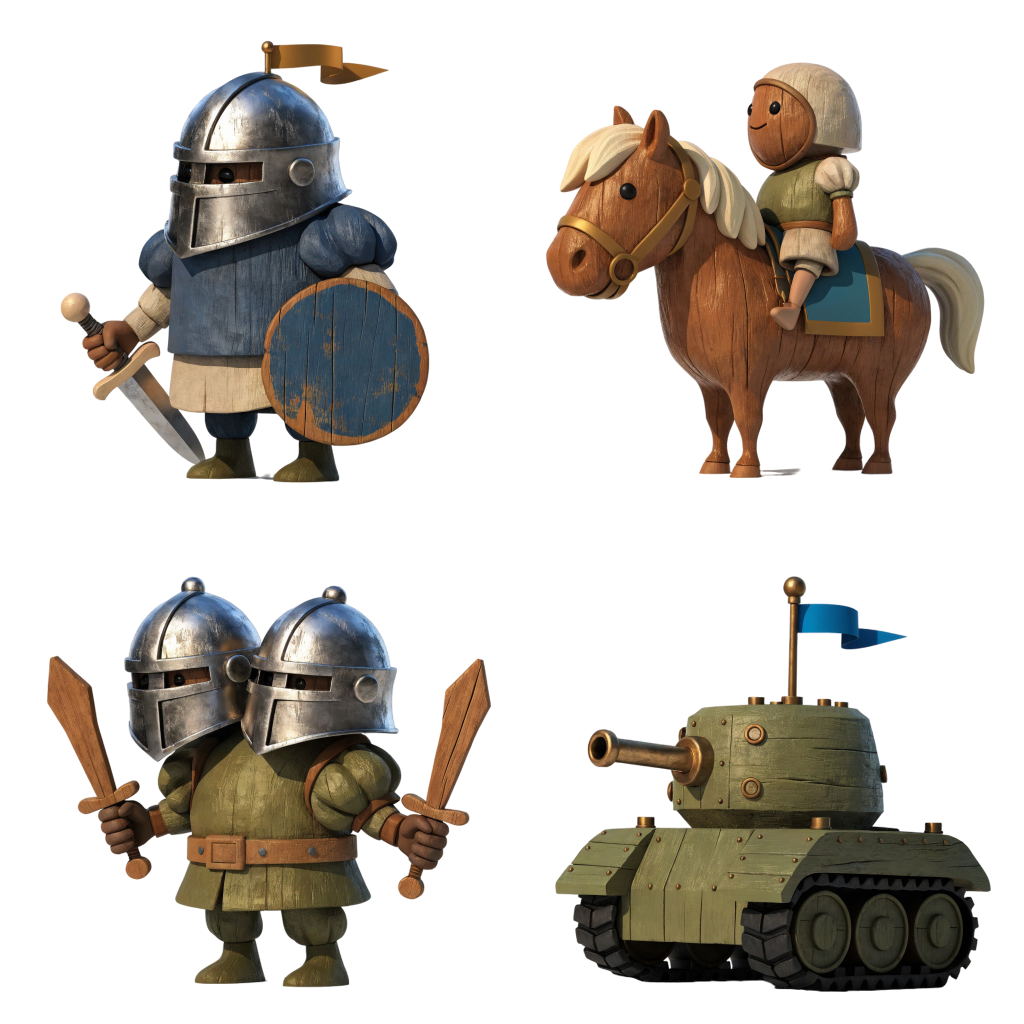
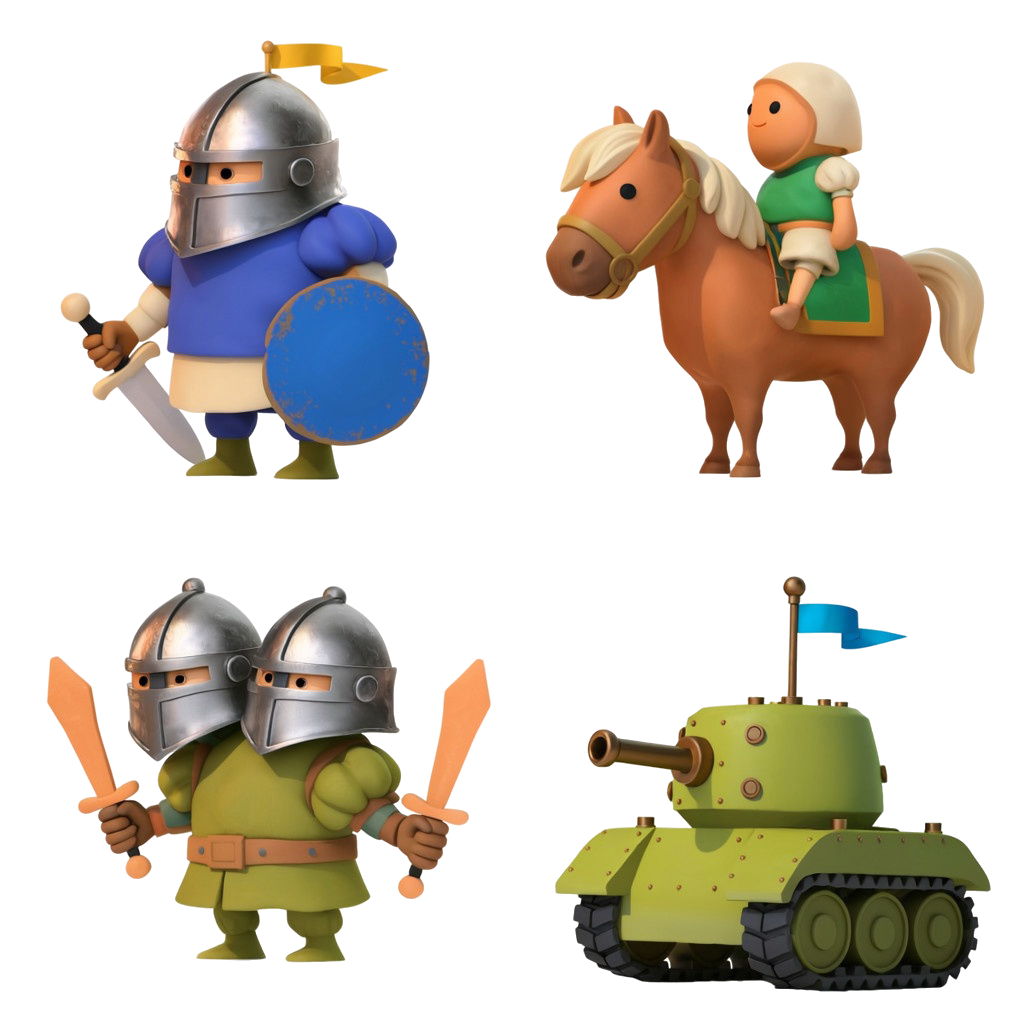
feat(art): onze planches refaites en pâte à modeler, mêmes personnages
Décision du parent après comparaison de quatre outils : garder les
personnages, leurs poses et leurs couleurs, ne changer que la matière.
Alliés, serpents, forteresses et pots de miel sont plus vifs et plus lisibles
sur téléphone. Format inchangé (1024×1024, WebP sans perte), planches plus
légères (3,9 Mo au lieu de 6,2). Aucune règle touchée.

Journal, identifiants Magnific et dépense :
public/assets/illustrated/PROVENANCE-RESTYLE-2026-11.md

Claude-Session: https://claude.ai/code/session_0153huJungw2KXDp7mHDZLQs

diff --git a/public/assets/illustrated/PROVENANCE-RESTYLE-2026-11.md b/public/assets/illustrated/PROVENANCE-RESTYLE-2026-11.md
@@ -1,0 +1,257 @@
+# Planches refaites en pâte à modeler — 12 novembre 2026
+
+Décision du parent le 12 novembre 2026, après comparaison de quatre outils (Magnific, Recraft,
+Leonardo, Higgsfield) : garder les personnages, leurs poses et leurs couleurs, et ne changer
+que la matière, pour des figurines plus vives et plus lisibles sur téléphone. Outil retenu :
+la retouche de Magnific (`images_retouch`, mode `edit`), puis son détourage.
+
+Onze planches de `src/assets/illustrated/` sont remplacées, toujours en 1024×1024, quatre
+cases de 512 (mutants : 512×600), WebP sans perte : allies-front, allies-support, allies-elite,
+allies-creatures, allies-dinosaurs, allies-mutants, enemies-organic, enemies-mechanical,
+serpents-family, strongholds, miels-parapluie. Les fonds, `terrain-props`,
+`props-three-bridges` et `interface-craft` ne changent pas. Les planches précédentes
+restent dans l'historique Git et sur le compte Magnific.
+
+Dépense totale du chantier : 1 618 crédits Magnific (essais compris) et 4 crédits Recraft.
+
+## Planches faites en premier (essais validés en jeu)
+
+| Planche | Source | Retouche retenue | Détourage |
+| --- | --- | --- | --- |
+| allies-front | tC4Ptr6mZJ | [lJosK3cgv9](https://www.magnific.com/app/creation/lJosK3cgv9) | 5jTbEkNKxe |
+| enemies-organic | 8ayO8lSIrU | [N2QNzyF6D9](https://www.magnific.com/app/creation/N2QNzyF6D9) | bx0bgPL5Y2 |
+
+Essais écartés : copie de style rgp1XZkxtc (couleurs changées), génération guidée ksMKE9M16B
+(personnages retournés), retouche SyISNuoUb8 (peau orange, confondue avec le contour des
+ennemis).
+
+## Compléments après accord du parent
+
+| Planche | Retouche retenue | Détourage | Remarque |
+| --- | --- | --- | --- |
+| allies-support | eIJeqf8dqL | 1lD1cNTr4r | détourage Magnific à la place du détourage local |
+| allies-mutants | hu3hLKovqL | XmyXU5pBfo | idem |
+| serpents-family | [yifytfkPW9](https://www.magnific.com/app/creation/yifytfkPW9) (qualité haute, 270 crédits) | xSexVzdjfW | remplace s7Bs3xNl8e : le cobra doré retrouve ses écailles et ses bandes ; le roi à trois têtes garde ses yeux rouges, bouches fermées |
+
+## Journal détaillé des neuf autres planches
+
+
+Compte Magnific Premium du créateur, projet Personal. Outil : `images_retouch`, mode `edit`, qualité `medium` (80 crédits), puis `images_remove_background` (3 crédits). Source de chaque retouche : l'image « Format production » 1024×1024 de PROVENANCE.md.
+
+**Solde : 14 207 → 13 303. Dépense : 904 crédits** (11 retouches × 80 = 880 ; 8 détourages × 3 = 24). Plafond : 1000.
+
+Rien n'a été écrit dans le dépôt. Fichiers : `full/<planche>.png` (détourage Magnific, 1024×1024 RGBA), `full-local-cutout/<planche>.png` (détourage local provisoire, à refaire sur Magnific), `planche-controle.png`.
+
+Contrôle de géométrie (boîtes alpha > 60 par case, nouveau contre jeu actuel) : aucun côté ne bouge de plus de 40 px. Écart maximal : allies-elite bas-gauche, bas −25 px (chevalier à deux têtes) ; strongholds bas-gauche, droite −9 px ; allies-mutants icône bouclier, 8–9 px.
+
+À faire avec accord : détourage Magnific de eIJeqf8dqL (allies-support) et hu3hLKovqL (allies-mutants), 3 crédits chacun ; reprise éventuelle de serpents-family (80 + 3).
+
+## allies-support
+
+- Source (format production) : jUDMjZNLD0 — https://www.magnific.com/app/creation/jUDMjZNLD0
+- Essai 1 : retouche ksMkyCm16B — https://www.magnific.com/app/creation/ksMkyCm16B
+  - Détourage : LwXL3TzswO (payé, inutilisé : essai 1 écarté)
+- Essai 2 (reprise, retenue) : retouche eIJeqf8dqL — https://www.magnific.com/app/creation/eIJeqf8dqL
+  - Détourage : AUCUN côté Magnific : appel refusé deux fois par le contrôle de permissions de la session. Détourage LOCAL provisoire (work/cutout.py)
+- Crédits : 80 + 3 + 80 = 163
+- Verdict : ACCEPTÉE (reprise), détourage Magnific À FAIRE. Essai 1 : géométrie bonne mais peau rose saumon, manteau du médecin devenu blanc — écart avec la planche allies-front validée (peau beige pâle). Reprise : peau beige pâle, manteau crème tricoté, bonnet et pull crème, mêmes poses. Fichier : full-local-cutout/allies-support.png (liseré blanc fin, corde de l'arc et monture des lunettes amincies par le détourage local). L'essai 1 détouré par Magnific est gardé dans work/alt/.
+
+Prompt exact, essai 1 (ksMkyCm16B) :
+
+```
+MATERIAL CHANGE ONLY. This is a 2x2 game sprite sheet of four toy heroes on a plain background. Do not move, resize, rotate, mirror, add or remove anything: each figure stays in its own quadrant, same pose, same proportions, same silhouette, same props, same direction.
+
+Re-sculpt the four figures in hand-made children's modelling clay (plasticine), like a stop-motion film: soft rounded volumes, smooth matte clay with faint fingerprints, slightly richer and more saturated colours so they read clearly at very small size on a pale sandy background. Warm soft light from the upper left, gentle shading, no harsh shadows. Friendly, brave, smiling faces with round open eyes.
+
+Keep the identity and colours of each: top-left = archer with blond hair, moss-green hood and moss-green tunic, brown belt and brown quiver of arrows on the back, holding a brown wooden bow with an arrow pointing left, light natural beige skin, bare feet; top-right = nurse with a cream knitted bonnet carrying a small green leaf, cream knitted sweater, tan apron, holding a rolled cream bandage in both hands, facing left, light natural beige skin, bare feet; bottom-left = doctor with curly light blond hair, round thin glasses, closed smiling eyes, long cream knitted coat, grey-blue shoulder satchel with a small green leaf, brown boots, light natural beige skin; bottom-right = ninja with a dusty purple hood, purple face scarf with a long purple scarf tail blowing to the right, blue-teal quilted jacket, brown wooden sword held diagonally behind the back, big dark round eyes, light natural beige skin, bare feet.
+
+Keep the background exactly as it is. No text, no outline stroke, no ground, no new objects.
+```
+
+Prompt exact, essai 2 (reprise, retenue) (eIJeqf8dqL) :
+
+```
+MATERIAL CHANGE ONLY. This is a 2x2 game sprite sheet of four toy heroes on a plain background. Do not move, resize, rotate, mirror, add or remove anything: each figure stays in its own quadrant, same pose, same proportions, same silhouette, same props, same direction.
+
+Re-sculpt the four figures in hand-made children's modelling clay (plasticine), like a stop-motion film: soft rounded volumes, smooth matte clay with faint fingerprints, slightly richer and more saturated colours so they read clearly at very small size on a pale sandy background. Warm soft light from the upper left, gentle shading, no harsh shadows. Friendly, brave, smiling faces with round open eyes.
+
+Keep the identity and colours of each: top-left = archer with blond hair, moss-green hood and moss-green tunic, brown belt and brown quiver of arrows on the back, holding a brown wooden bow with an arrow pointing left, bare feet; top-right = nurse with a cream knitted bonnet carrying a small green leaf, cream knitted sweater, tan apron, holding a rolled cream bandage in both hands, facing left, bare feet; bottom-left = doctor with curly light blond hair, round thin glasses, closed smiling eyes, long cream knitted coat, grey-blue shoulder satchel with a small green leaf, brown boots; bottom-right = ninja with a dusty purple hood, purple face scarf with a long purple scarf tail blowing to the right, blue-teal quilted jacket, brown wooden sword held diagonally behind the back, big dark round eyes, bare feet.
+
+SKIN COLOUR, important: the faces, hands and feet of all four must be very pale cream-beige clay, the colour of light unpainted wood or oatmeal, exactly as pale as in the original image. Not pink, not salmon, not peach, not orange, no rosy tint.
+
+Keep the background exactly as it is. No text, no outline stroke, no ground, no new objects.
+```
+
+## allies-elite
+
+- Source (format production) : 3zQu3oFREY — https://www.magnific.com/app/creation/3zQu3oFREY
+- Essai 1 : retouche yifyYUDPW9 — https://www.magnific.com/app/creation/yifyYUDPW9
+  - Détourage : lJolZpZgv9 — https://www.magnific.com/app/creation/lJolZpZgv9
+- Crédits : 80 + 3 = 83
+- Verdict : ACCEPTÉE. Quatre cases en place, mêmes poses. Tunique du chevalier d'un bleu plus vif, casques et canon restés métal. Regard des chevaliers un peu sourcils froncés sous la visière (comme l'original).
+
+Prompt exact, essai 1 (yifyYUDPW9) :
+
+```
+MATERIAL CHANGE ONLY. This is a 2x2 game sprite sheet of four toy heroes on a plain background. Do not move, resize, rotate, mirror, add or remove anything: each figure stays in its own quadrant, same pose, same proportions, same silhouette, same props, same direction.
+
+Re-sculpt the four figures in hand-made children's modelling clay (plasticine), like a stop-motion film: soft rounded volumes, smooth matte clay with faint fingerprints, slightly richer and more saturated colours so they read clearly at very small size on a pale sandy background. Warm soft light from the upper left, gentle shading, no harsh shadows. Friendly, brave, smiling faces with round open eyes.
+
+Keep the identity and colours of each: top-left = knight with a silver-grey metal helmet with visor and a small ochre pennant on top, blue padded tunic with a cream hem, round blue shield with a brown rim on the right, short silver sword with a brown hilt on the left, dark green boots; top-right = rider with a cream cap and green tunic sitting on a chestnut-brown horse with a cream blond mane and cream tail, blue saddle blanket, horse facing left; bottom-left = two-headed knight with two silver-grey metal helmets side by side on one body, olive-green tunic with a brown belt, one brown wooden sword in each hand pointing up, dark green boots; bottom-right = small olive-green toy tank with a round turret, brass-coloured cannon pointing left, dark grey tracks and wheels, small blue flag on a pole. Helmets, sword blade and cannon stay metal-coloured clay (silver-grey, brass). The tank has no face.
+
+Keep the background exactly as it is. No text, no outline stroke, no ground, no new objects.
+```
+
+## allies-creatures
+
+- Source (format production) : p8SgpKlehw — https://www.magnific.com/app/creation/p8SgpKlehw
+- Essai 1 : retouche 8a98bBFIrU — https://www.magnific.com/app/creation/8a98bBFIrU
+  - Détourage : LwXL3DtswO — https://www.magnific.com/app/creation/LwXL3DtswO
+- Crédits : 80 + 3 = 83
+- Verdict : ACCEPTÉE. Dragon, dinosaure, barricade, pot de miel : mêmes poses, couleurs plus franches.
+
+Prompt exact, essai 1 (8a98bBFIrU) :
+
+```
+MATERIAL CHANGE ONLY. This is a 2x2 game sprite sheet of four toy creatures and objects on a plain background. Do not move, resize, rotate, mirror, add or remove anything: each figure stays in its own quadrant, same pose, same proportions, same silhouette, same props, same direction.
+
+Re-sculpt the four figures in hand-made children's modelling clay (plasticine), like a stop-motion film: soft rounded volumes, smooth matte clay with faint fingerprints, slightly richer and more saturated colours so they read clearly at very small size on a pale sandy background. Warm soft light from the upper left, gentle shading, no harsh shadows. Friendly, brave, smiling faces with round open eyes. (Only the dragon and the dinosaur have faces; the logs and the pot have no face.)
+
+Keep the identity and colours of each: top-left = baby dragon, teal-blue body with a cream belly, two golden-yellow horns, small teal wings, teal arrow-tipped tail, standing on four legs facing left; top-right = small chubby dinosaur, sage grey-green body with a cream belly, orange-red back spikes, standing upright facing left, tail to the right; bottom-left = barricade of three upright moss-green wooden logs with patches of moss, tied together with a cream rope, a small teal-blue cloth hanging at the bottom right; bottom-right = round orange-ochre clay honey pot filled with amber honey, a brown wooden honey dipper resting in it pointing to the upper right, one small green leaf on its right side.
+
+Keep the background exactly as it is. No text, no outline stroke, no ground, no new objects.
+```
+
+## enemies-mechanical
+
+- Source (format production) : nVkKnF0YQD — https://www.magnific.com/app/creation/nVkKnF0YQD
+- Essai 1 : retouche JNvJnyROq4 — https://www.magnific.com/app/creation/JNvJnyROq4
+  - Détourage : SyISAo2Ub8 — https://www.magnific.com/app/creation/SyISAo2Ub8
+- Crédits : 80 + 3 = 83
+- Verdict : ACCEPTÉE. Le serpent blindé a maintenant des plaques sarcelle cerclées de cuivre (avant : plaques cuivre et vert-de-gris mêlées) — dérive de couleur légère à faire valider. Roi cobra : regard un peu sévère, sans crocs.
+
+Prompt exact, essai 1 (JNvJnyROq4) :
+
+```
+MATERIAL CHANGE ONLY. This is a 2x2 game sprite sheet of four toy snakes and objects on a plain background. Do not move, resize, rotate, mirror, add or remove anything: each figure stays in its own quadrant, same pose, same proportions, same silhouette, same props, same direction.
+
+Re-sculpt the four figures in hand-made children's modelling clay (plasticine), like a stop-motion film: soft rounded volumes, smooth matte clay with faint fingerprints, slightly richer and more saturated colours so they read clearly at very small size on a pale sandy background. Warm soft light from the upper left, gentle shading, no harsh shadows. Cheeky, mischievous but friendly cartoon expressions with round open eyes — never scary, no fangs showing, no blood. (The egg has no face.)
+
+Keep the identity and colours of each: top-left = king cobra, dark green back with a cream belly and cream inside of the open hood, small golden crown on its head, coiled on the ground, head facing right; top-right = armoured mechanical snake, verdigris blue-green metal head with one big round amber-orange eye, body made of copper-brown riveted metal plates with a small copper gear on its side, head facing right, tail curling up on the left; bottom-left = spring snake, teal-blue head with an amber-orange eye, body made of a brass-coloured coiled metal spring with a small brass wind-up key behind the head, thin teal-blue tail curling up on the left, head facing right; bottom-right = large cream speckled egg with a zigzag crack line, a tiny green two-leaf sprout on top, sitting in a dark grey porous rock nest with green moss. Metal plates, gear, spring and key stay metal-coloured clay (copper, brass, verdigris).
+
+Keep the background exactly as it is. No text, no outline stroke, no ground, no new objects.
+```
+
+## allies-dinosaurs
+
+- Source (format production) : 5jWazibKxe — https://www.magnific.com/app/creation/5jWazibKxe
+- Essai 1 : retouche N2QNVSo6D9 — https://www.magnific.com/app/creation/N2QNVSo6D9
+  - Détourage : gO8gAhySXO — https://www.magnific.com/app/creation/gO8gAhySXO
+- Crédits : 80 + 3 = 83
+- Verdict : ACCEPTÉE. Mêmes poses, foulards gardés. Couleurs plus pastel : le stégosaure perd son ventre olive foncé (tout bleu clair), tête du T-rex plus rose. Le T-rex montre de petites dents, comme l'original.
+
+Prompt exact, essai 1 (N2QNVSo6D9) :
+
+```
+MATERIAL CHANGE ONLY. This is a 2x2 game sprite sheet of four toy dinosaurs on a plain background. Do not move, resize, rotate, mirror, add or remove anything: each figure stays in its own quadrant, same pose, same proportions, same silhouette, same props, same direction.
+
+Re-sculpt the four figures in hand-made children's modelling clay (plasticine), like a stop-motion film: soft rounded volumes, smooth matte clay with faint fingerprints, slightly richer and more saturated colours so they read clearly at very small size on a pale sandy background. Warm soft light from the upper left, gentle shading, no harsh shadows. Friendly, brave, smiling faces with round open eyes.
+
+Keep the identity and colours of each: top-left = small raptor standing on two legs facing left, lilac-purple and cream body with light blue patches, teal neck scarf, long tail to the right; top-right = triceratops facing left, light blue-teal head with a frill edged in pink and three dark blue horns, body fading to coral pink at the back, teal neck scarf, dark blue toes; bottom-left = stegosaurus facing left, teal-blue body with a darker olive belly, orange back plates and orange tail spikes, teal neck scarf; bottom-right = tyrannosaurus standing upright facing left, orange body with a darker red-orange head, small orange crest spikes, tiny arms, teal neck scarf, cream claws. Every dinosaur keeps its teal scarf.
+
+Keep the background exactly as it is. No text, no outline stroke, no ground, no new objects.
+```
+
+## allies-mutants
+
+- Source (format production) : 1lTE0P9r4r — https://www.magnific.com/app/creation/1lTE0P9r4r
+- Essai 1 : retouche 79h7zs9JAL — https://www.magnific.com/app/creation/79h7zs9JAL
+  - Détourage : aucun
+- Essai 2 (reprise, retenue) : retouche hu3hLKovqL — https://www.magnific.com/app/creation/hu3hLKovqL
+  - Détourage : AUCUN côté Magnific : appel refusé par le contrôle de permissions de la session. Détourage LOCAL provisoire (work/cutout.py)
+- Crédits : 80 + 80 = 160
+- Verdict : ACCEPTÉE AVEC RÉSERVES (reprise), détourage Magnific À FAIRE. Essai 1 : golem devenu gris ardoise foncé et lisse (plus de blocs bleus), corps de la créature rouge-rose vif. Reprise : golem bleu en blocs, créature rose-mauve ; mais rendu plus pâle, une petite bouche souriante ajoutée aux deux personnages, et l'icône bouclier (bas droite, non utilisée par le jeu selon PROVENANCE.md) a perdu ses deux pointes du haut. Cadres 512×600 de la rangée du haut respectés. Fichier : full-local-cutout/allies-mutants.png (liseré blanc visible, arcs du signal délavés).
+
+Prompt exact, essai 1 (79h7zs9JAL) :
+
+```
+MATERIAL CHANGE ONLY. This is a 2x2 game sprite sheet of four toy heroes and small icons on a plain background. Do not move, resize, rotate, mirror, add or remove anything: each figure stays in its own quadrant, same pose, same proportions, same silhouette, same props, same direction.
+
+Re-sculpt the four figures in hand-made children's modelling clay (plasticine), like a stop-motion film: soft rounded volumes, smooth matte clay with faint fingerprints, slightly richer and more saturated colours so they read clearly at very small size on a pale sandy background. Warm soft light from the upper left, gentle shading, no harsh shadows. Friendly, brave, smiling faces with round open eyes. (The two small icons in the bottom row have no face.)
+
+Keep the identity and colours of each: top-left = tall rock golem made of blue stone blocks, two round amber-brown eyes, teal scarf with a teal leaf-shaped end blowing to the left, big blue stone fists, standing facing the viewer, its feet reach slightly below the middle of the sheet; top-right = tall soft creature with a lilac-purple rounded head, two dark round eyes, mustard-yellow scarf, pink-mauve knitted body, two big teal mittens held out to the sides, round pink feet, standing facing the viewer, its feet reach slightly below the middle of the sheet; bottom-left = small orange icon: three stacked orange beads ending in a point at the bottom, with two small curved orange signal arcs on each side above it; bottom-right = small icon: golden-orange rounded shield shape with two cream horizontal stripes inside. The two bottom icons stay small and stay in the lower part of their quadrants.
+
+Keep the background exactly as it is. No text, no outline stroke, no ground, no new objects.
+```
+
+Prompt exact, essai 2 (reprise, retenue) (hu3hLKovqL) :
+
+```
+MATERIAL CHANGE ONLY. This is a 2x2 game sprite sheet of four toy heroes and small icons on a plain background. Do not move, resize, rotate, mirror, add or remove anything: each figure stays in its own quadrant, same pose, same proportions, same silhouette, same props, same direction.
+
+Re-sculpt the four figures in hand-made children's modelling clay (plasticine), like a stop-motion film: soft rounded volumes, smooth matte clay with faint fingerprints, slightly richer and more saturated colours so they read clearly at very small size on a pale sandy background. Warm soft light from the upper left, gentle shading, no harsh shadows. Friendly, brave, smiling faces with round open eyes. (The two small icons in the bottom row have no face.)
+
+Keep the identity and colours of each: top-left = tall rock golem built from separate stacked stone blocks with visible gaps between the blocks, every block a clear medium cornflower blue (light sky-blue highlights, never dark, never grey, never navy), two round amber-brown eyes, teal scarf with a teal leaf-shaped end blowing to the left, big blue stone-block fists, standing facing the viewer, its feet reach slightly below the middle of the sheet; top-right = tall soft creature with a lilac-purple rounded head, two dark round eyes, mustard-yellow scarf, body in soft dusty mauve-pink (a pale purple-pink like heather, not red, not crimson, not coral), two big teal mittens held out to the sides, round mauve-pink feet, standing facing the viewer, its feet reach slightly below the middle of the sheet; bottom-left = small orange icon: three stacked orange beads ending in a point at the bottom, with two small curved orange signal arcs on each side above it; bottom-right = small icon: golden-orange rounded shield shape with two cream horizontal stripes inside. The two bottom icons stay small and stay in the lower part of their quadrants.
+
+Keep the background exactly as it is. No text, no outline stroke, no ground, no new objects.
+```
+
+## serpents-family
+
+- Source (format production) : BhJcUsRoQR — https://www.magnific.com/app/creation/BhJcUsRoQR
+- Essai 1 : retouche s7Bs3xNl8e — https://www.magnific.com/app/creation/s7Bs3xNl8e
+  - Détourage : 1lD1itLr4r — https://www.magnific.com/app/creation/1lD1itLr4r
+- Crédits : 80 + 3 = 83
+- Verdict : ACCEPTÉE AVEC RÉSERVE. Vérifiée en 1024 px : les trois têtes du roi ont la bouche fermée, sans dents ; yeux rouges gardés, air grognon mais pas effrayant. Le cobra doré a perdu ses écailles et les bandes du ventre (capuchon lisse, tête moins dessinée). Une reprise était prévue (prompt dans work/prompts/serpents-family-retry.txt) : l'appel a été refusé par le contrôle de permissions de la session, rien n'a été dépensé.
+
+Prompt exact, essai 1 (s7Bs3xNl8e) :
+
+```
+MATERIAL CHANGE ONLY. This is a 2x2 game sprite sheet of four toy snakes on a plain background. Do not move, resize, rotate, mirror, add or remove anything: each figure stays in its own quadrant, same pose, same proportions, same silhouette, same props, same direction.
+
+Re-sculpt the four figures in hand-made children's modelling clay (plasticine), like a stop-motion film: soft rounded volumes, smooth matte clay with faint fingerprints, slightly richer and more saturated colours so they read clearly at very small size on a pale sandy background. Warm soft light from the upper left, gentle shading, no harsh shadows. Cheeky, mischievous but friendly cartoon expressions with round open eyes — never scary, no fangs showing, no blood.
+
+Keep the identity and colours of each: top-left = rattlesnake rising in an S shape, terracotta orange-pink body with cream diamond patches, cream belly, beige stacked rattle at the end of the tail on the left, head facing right; top-right = cobra standing tall with its hood open, golden-ochre body and hood with teal blue-green back and edges, head facing right; bottom-left = black snake coiled on the ground with its neck raised, charcoal-black back, light grey banded belly, yellow eye, head facing right; bottom-right = three-headed snake king, indigo blue-violet scaly body with a golden-ochre belly, three heads on three necks rising from one coil (left head facing left, middle head facing the viewer and wearing a small golden crown, right head facing right), round red-orange eyes, mouths in closed cheeky grins. The three heads stay clearly separated.
+
+Keep the background exactly as it is. No text, no outline stroke, no ground, no new objects.
+```
+
+## strongholds
+
+- Source (format production) : KLcMh3pkqp — https://www.magnific.com/app/creation/KLcMh3pkqp
+- Essai 1 : retouche O6aO0WNynm — https://www.magnific.com/app/creation/O6aO0WNynm
+  - Détourage : EbGEwJXuuO — https://www.magnific.com/app/creation/EbGEwJXuuO
+- Crédits : 80 + 3 = 83
+- Verdict : ACCEPTÉE. Refuge et trois antres en place ; mousse plus verte, engrenages orange vif. Les traces d'ombre bleu pâle de la source ont disparu. La tête de serpent de l'antre de racines a maintenant une petite bouche ouverte. Antre à rouages : bord droit 9 px plus court. Comparée à strongholds.webp (version nettoyée 0.28).
+
+Prompt exact, essai 1 (O6aO0WNynm) :
+
+```
+MATERIAL CHANGE ONLY. This is a 2x2 game sprite sheet of four toy buildings (one small castle and three cave lairs) on a plain background. Do not move, resize, rotate, mirror, add or remove anything: each figure stays in its own quadrant, same pose, same proportions, same silhouette, same props, same direction.
+
+Re-sculpt the four figures in hand-made children's modelling clay (plasticine), like a stop-motion film: soft rounded volumes, smooth matte clay with faint fingerprints, slightly richer and more saturated colours so they read clearly at very small size on a pale sandy background. Warm soft light from the upper left, gentle shading, no harsh shadows. The buildings have no faces. Cosy and inviting, never scary.
+
+Keep the identity and colours of each: top-left = small grey stone castle refuge seen from the front-left, two round towers topped with green moss and a green flag each, a big glowing light-blue crystal between two green leaves in the middle, an arched brown wooden double door, moss at the foot of the walls; top-right = cave lair made of pale beige twisted tree roots forming an arch whose top is shaped like a sleepy snake head, green moss on top, small green ferns, a few small cream eggs at the lower left, dark cave opening with a grey stone paved floor in front; bottom-left = cave lair shaped like a pale beige wooden stump, decorated with rust-orange metal gears of several sizes and one round porthole, orange autumn leaves around, dark cave opening with a grey stone paved floor; bottom-right = cave lair made of a grey stone arch wrapped in pale beige winding vines and roots, green moss on top, tiny pale blue mushrooms, dark cave opening. Gears stay rust-orange metal-coloured clay; the paved floors inside each building stay. The faint pale blue shadow smudges on the white background around the buildings are not part of the buildings: leave plain white there.
+
+Keep the background exactly as it is. No text, no outline stroke, no ground, no new objects.
+```
+
+## miels-parapluie
+
+- Source (format production) : 1lTBZAWr4r — https://www.magnific.com/app/creation/1lTBZAWr4r
+- Essai 1 : retouche XmyX55aBfo — https://www.magnific.com/app/creation/XmyX55aBfo
+  - Détourage : ov4o1Lg829 — https://www.magnific.com/app/creation/ov4o1Lg829
+- Crédits : 80 + 3 = 83
+- Verdict : ACCEPTÉE. Serpent parapluie ouvert/fermé, pot ambré, pot vert : identiques en place, étiquettes restées vides.
+
+Prompt exact, essai 1 (XmyX55aBfo) :
+
+```
+MATERIAL CHANGE ONLY. This is a 2x2 game sprite sheet of four toy snakes and honey pots on a plain background. Do not move, resize, rotate, mirror, add or remove anything: each figure stays in its own quadrant, same pose, same proportions, same silhouette, same props, same direction.
+
+Re-sculpt the four figures in hand-made children's modelling clay (plasticine), like a stop-motion film: soft rounded volumes, smooth matte clay with faint fingerprints, slightly richer and more saturated colours so they read clearly at very small size on a pale sandy background. Warm soft light from the upper left, gentle shading, no harsh shadows. Cheeky, mischievous but friendly cartoon expressions with round open eyes — never scary, no fangs showing, no blood. (The two pots have no face.)
+
+Keep the identity and colours of each: top-left = small sage-green snake with a cream banded belly, coiled, head facing left, big dark shiny eyes, holding an open umbrella made of sage-green leaves above its head on a thin green stem; top-right = the same sage-green snake with a cream banded belly, coiled, head facing left, with the leaf umbrella folded shut behind it; bottom-left = round honey pot in warm light-brown wood colour, amber honey glass rim on top, a brown wooden honey dipper resting in it pointing to the upper right, one blank cream rectangular label on the front; bottom-right = round sage-green pot with thick green sticky goo dripping over the rim, two dark green leaves at the upper right, one blank cream rectangular label on the front. Both labels stay completely blank.
+
+Keep the background exactly as it is. No text, no outline stroke, no ground, no new objects.
+```

diff --git a/docs/PLAN-ACTUEL.md b/docs/PLAN-ACTUEL.md
@@ -44,9 +44,11 @@ touché, respiration des alliés au repos, pièce qui vole vers le compteur, pou
 d'un allié, éclats à l'éclosion, étoiles de victoire une à une, confettis, bilan de fin lisible
 (13 px au moins), secousse à l'arrivée du roi. Tout est coupé par « Effets légers ».
 
-Essai de style du 12 novembre, non intégré : la planche des alliés de départ refaite en pâte à
-modeler plus vive (Higgsfield à la main, ou retouche Magnific à 83 crédits la planche). Le
-choix appartient au parent et à son fils ; dix planches suivraient, serpents en premier.
+Graphismes, 12 novembre : onze planches (alliés, serpents, forteresses, miels) refaites en
+pâte à modeler plus vive avec la retouche Magnific, mêmes personnages, poses et couleurs.
+Journal et identifiants : `public/assets/illustrated/PROVENANCE-RESTYLE-2026-11.md`.
+À faire ensuite : accessoires de terrain et habillage de l'interface dans la même matière ;
+essai d'une vraie pose d'attaque sur les quatre alliés de départ.
 
 Les musiques sont lues en continu par un élément audio au lieu d'être décodées en entier :
 un morceau de trois minutes occupait plus de 100 Mo de mémoire. Elles démarrent sans attendre

diff --git a/public/assets/illustrated/PROVENANCE.md b/public/assets/illustrated/PROVENANCE.md
@@ -1,5 +1,9 @@
 # Assets illustrés — version 0.11
 
+> Onze planches ont été refaites en pâte à modeler le 12 novembre 2026 : voir
+> [PROVENANCE-RESTYLE-2026-11.md](PROVENANCE-RESTYLE-2026-11.md). Ce qui suit décrit leur
+> création d'origine.
+
 Création le 2 novembre 2026 via le compte Magnific Premium du créateur,
 modèle Recraft V4 Pro. Style défini pour ce jeu : miniatures de conte en bois
 peint, moss/ocre/teal, silhouettes distinctes et lisibles. La planche front a
